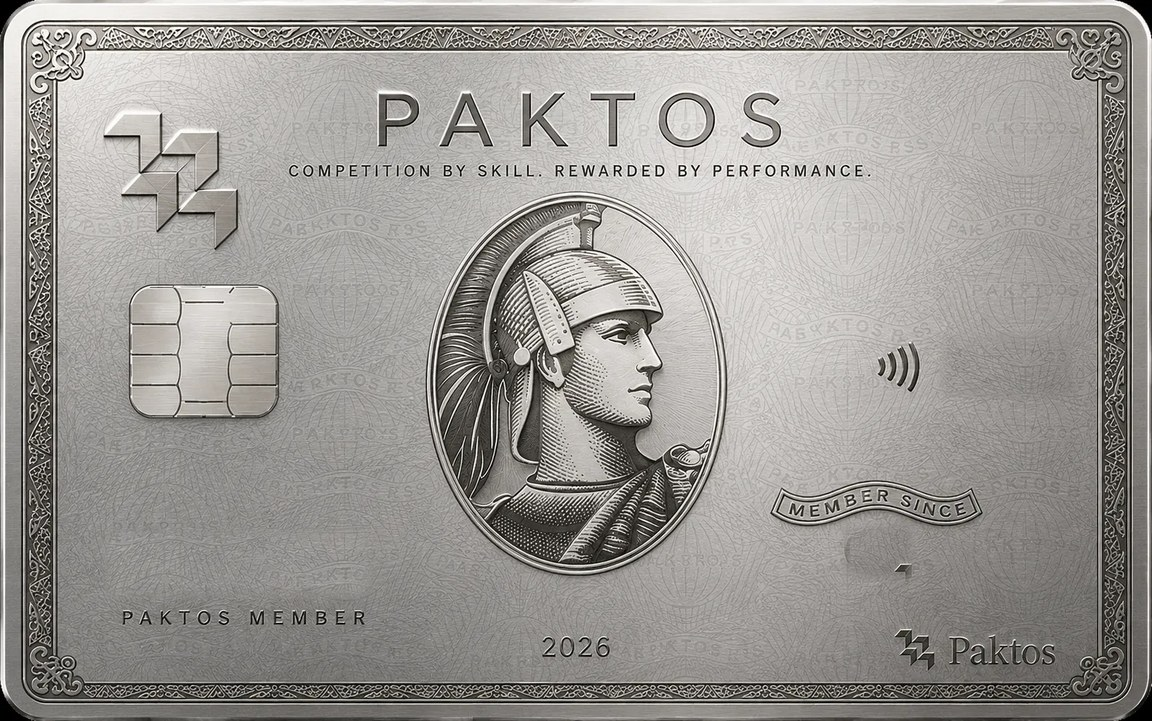
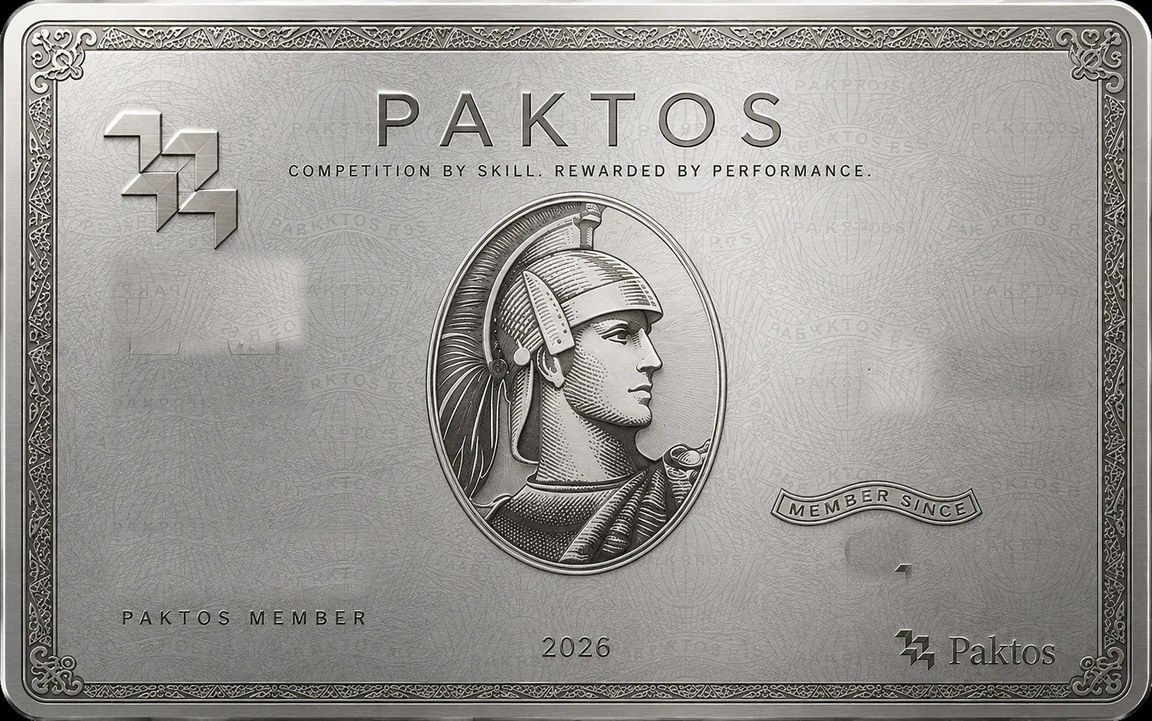
Make the card a members card; scaffold Spline hero for the waitlist page
Card artwork edits: EMV chip and contactless symbol digitally removed
(feathered texture patches), so the platinum card reads as a members
card, not a bank card. The full membership serial (PKT-xxxxx) is now
engraved where the card number was, and the member name is seated
directly above the PAKTOS MEMBER label. Fixed missing utf-8 charset in
the single-file preview build.

Adds @splinetool/react-spline with a lazy-loaded SplineHero on the
landing page behind a SPLINE_SCENE constant — renders nothing until a
real scene URL is configured.

Claude-Session: https://claude.ai/code/session_0133e7sqrfBedwH7Z4eBcuAY

Changed region(s): [[0.0938, 0.3356, 0.2812, 0.6103], [0.75, 0.4577, 0.8125, 0.5492]]

diff --git a/paktos-landing/src/components/paktos-card.tsx b/paktos-landing/src/components/paktos-card.tsx
@@ -29,12 +29,11 @@ function PlatinumCardFace({
   memberName: string;
   serial: string;
 }) {
-  const last4 = serial.replace(/\D/g, "").slice(-4);
   return (
     <div className="relative w-full" style={{ containerType: "inline-size" }}>
       <img
         src={platinumCard}
-        alt="Paktos platinum member card"
+        alt="Paktos member card"
         className="block h-auto w-full rounded-2xl"
       />
       {/* Member name — set above the engraved PAKTOS MEMBER label */}
@@ -43,25 +42,25 @@ function PlatinumCardFace({
         style={{
           ...engraved,
           left: "10%",
-          top: "72.5%",
-          fontSize: "5.6cqw",
+          top: "73.5%",
+          fontSize: "5.4cqw",
           letterSpacing: "0.14em",
         }}
       >
         {memberName}
       </p>
-      {/* Serial digits — beside the contactless symbol */}
+      {/* Membership serial — where a bank card would carry its number */}
       <p
-        className="absolute font-sans tabular-nums"
+        className="absolute -translate-x-1/2 -translate-y-1/2 whitespace-nowrap font-sans tabular-nums"
         style={{
           ...engraved,
-          left: "82%",
-          top: "44.5%",
-          fontSize: "5.2cqw",
-          letterSpacing: "0.1em",
+          left: "84%",
+          top: "50%",
+          fontSize: "4.4cqw",
+          letterSpacing: "0.12em",
         }}
       >
-        {last4}
+        {serial}
       </p>
       {/* Member since — under the banner */}
       <p

diff --git a/paktos-landing/src/App.tsx b/paktos-landing/src/App.tsx
@@ -1,10 +1,15 @@
 import * as React from "react";
 import { AnimatedTicket } from "@/components/ui/ticket-confirmation-card";
+import { SplineHero } from "@/components/ui/spline-hero";
 import { PaktosLogo } from "@/components/paktos-logo";
 import { PaktosCard } from "@/components/paktos-card";
 import paktosIconBlack from "@/assets/paktos-icon-black-192.png";
 
 const XP_BONUS = 500;
+
+// Paste the real Spline export URL here (Spline → Export → Code → React),
+// e.g. "https://prod.spline.design/AbCdEfGh/scene.splinecode".
+const SPLINE_SCENE = "";
 
 type Stage = "email" | "name" | "ticket" | "card";
 
@@ -102,6 +107,7 @@ export default function App() {
         />
       ) : (
         <div className="flex w-full max-w-md flex-col items-center text-center">
+          <SplineHero scene={SPLINE_SCENE} className="mb-8 h-64 w-full" />
           <PaktosLogo />
           <p className="mt-6 text-muted-foreground">
             The World Is Watching.

diff --git a/paktos-landing/src/components/ui/spline-hero.tsx b/paktos-landing/src/components/ui/spline-hero.tsx
@@ -1,0 +1,23 @@
+import { lazy, Suspense } from "react";
+
+// Loaded lazily so the 3D runtime is only fetched when a scene is configured.
+const Spline = lazy(() => import("@splinetool/react-spline"));
+
+interface SplineHeroProps {
+  /** Full URL of a Spline scene export, e.g. https://prod.spline.design/xxxx/scene.splinecode */
+  scene: string;
+  className?: string;
+}
+
+// 3D Spline scene wrapper for the waitlist page. Renders nothing until a
+// real scene URL is provided.
+export function SplineHero({ scene, className }: SplineHeroProps) {
+  if (!scene || scene === "loading...") return null;
+  return (
+    <div className={className}>
+      <Suspense fallback={null}>
+        <Spline scene={scene} />
+      </Suspense>
+    </div>
+  );
+}
